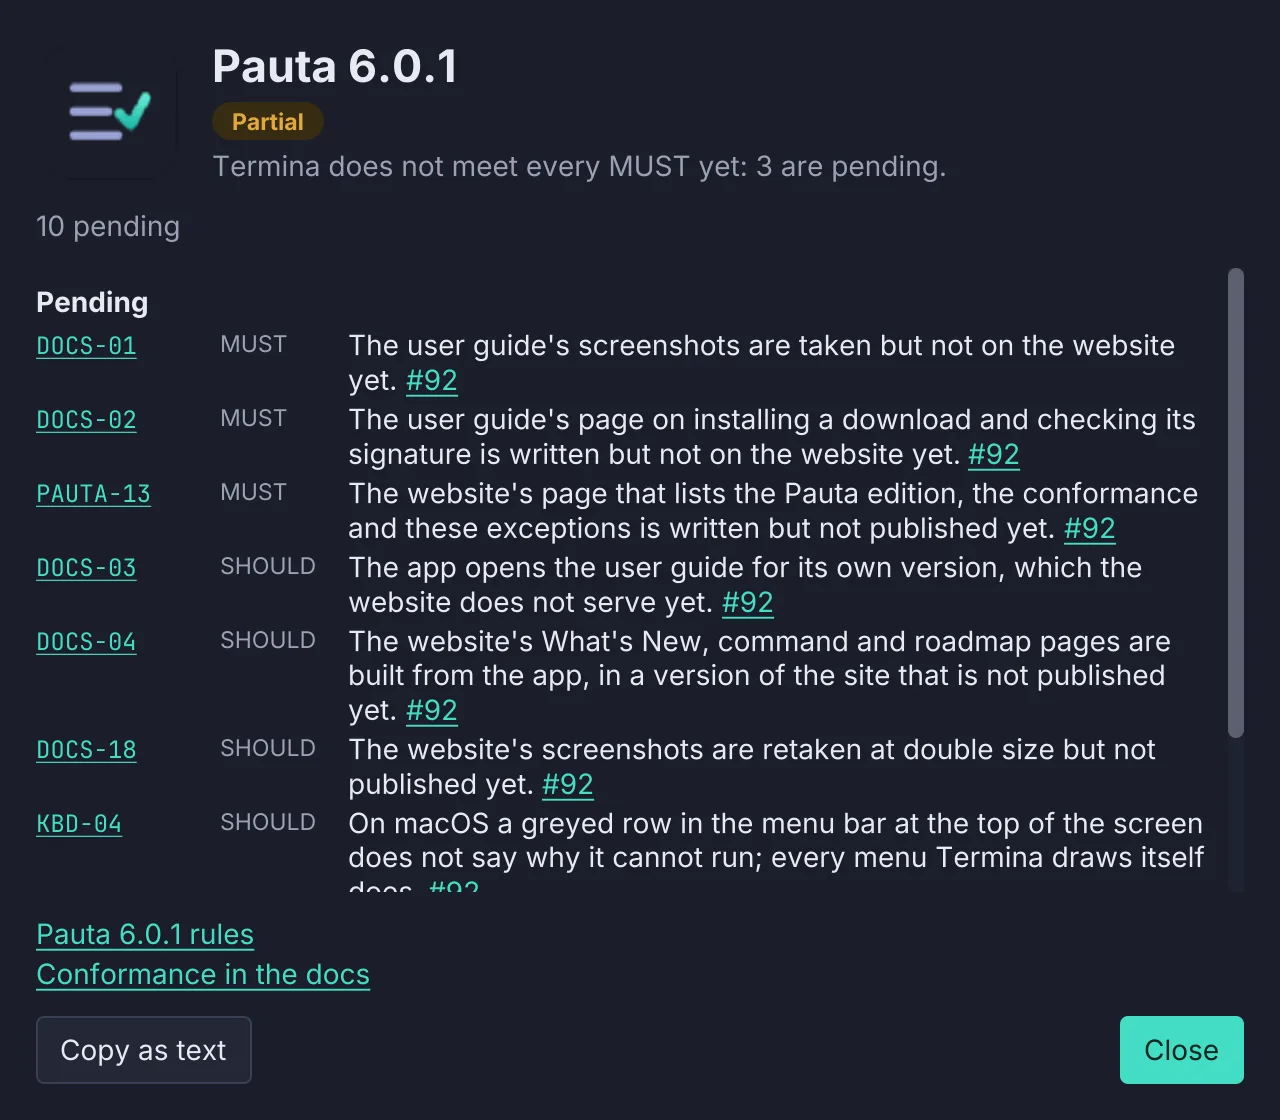
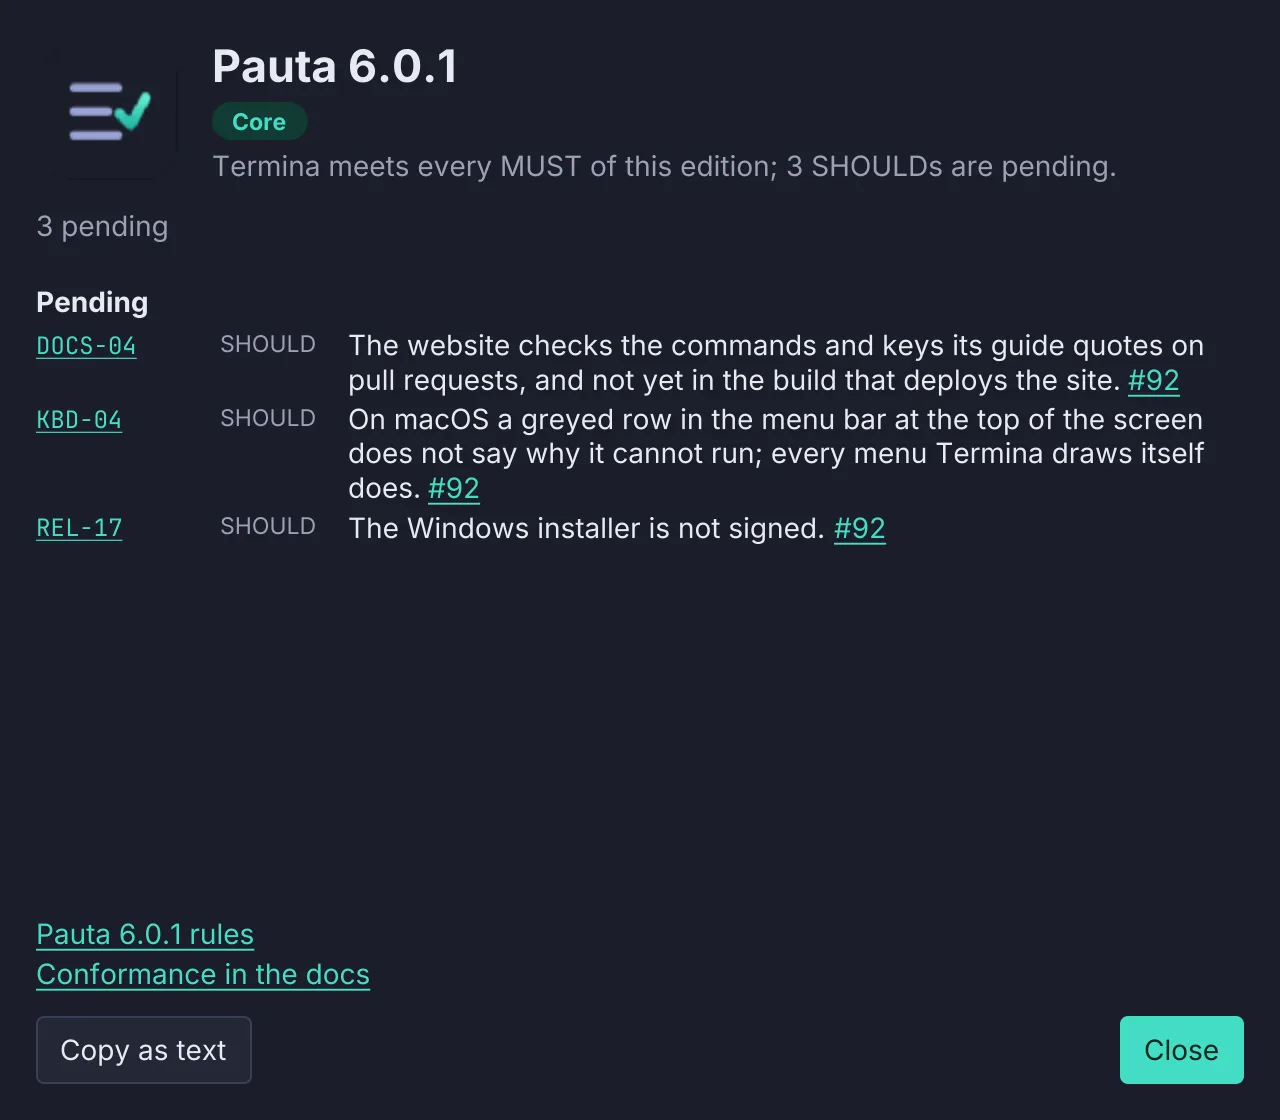
The build runs the docs check; conformance page regenerated at Core
- package.json: `npm run build` runs scripts/check-doc-commands.mjs first and
  stops if it fails, so the workflow that deploys the site cannot publish a
  guide that names a command the app does not have (DOCS-04). It ran only in
  the Check workflow on pull requests. Tried with a wrong id in keyboard.md:
  the build exits 1.
- check.yml: one step, the build, now that the build checks.
- pauta.md, its picture, whats-new.md, roadmap.md and the generated data
  regenerated from Termina's pauta-site-live branch as 0.15.0: Core, 3
  exceptions, where the page listed 10.

diff --git a/src/lib/commands.ts b/src/lib/commands.ts
@@ -1,5 +1,5 @@
 // AUTO-GENERATED by scripts/GenCommands.java — do not edit by hand.
-// Source: messages.properties and the key maps in the Termina repository, at pauta-6.0.1-last.
+// Source: messages.properties and the key maps in the Termina repository, at pauta-site-live.
 // Re-run the script after a release, or after a command or a chord changes.
 
 // A chord is its keys in order, given separately for Linux and Windows (pc) and for macOS

diff --git a/src/lib/version.ts b/src/lib/version.ts
@@ -1,5 +1,5 @@
 // AUTO-GENERATED by scripts/GenCommands.java — do not edit by hand.
-// Source: Termina's pom.xml <version> at pauta-6.0.1-last, or the newest released CHANGELOG.md
+// Source: Termina's pom.xml <version> at pauta-site-live, or the newest released CHANGELOG.md
 // section while the pom is on a -SNAPSHOT between releases; here given with --as, ahead of the release.
 
 export const version = "0.15.0";

diff --git a/src/content/docs/pauta.md b/src/content/docs/pauta.md
@@ -1,6 +1,6 @@
 ---
 title: Pauta conformance
-description: The edition of Pauta, the guidelines Termina's family of apps follows, that Termina is working toward, how fully it conforms, and every rule it does not meet as written.
+description: The edition of Pauta, the guidelines Termina's family of apps follows, that Termina is built to, how fully it conforms, and every rule it does not meet as written.
 category: Help
 order: 13
 ---
@@ -11,9 +11,9 @@ order: 13
 look and work the same on Windows, macOS and Linux. Each rule has an ID and a level: a **MUST** is
 required, a **SHOULD** is expected unless there is a stated reason.
 
-Termina is working toward **[Pauta 6.0.1](https://pauta-project.dev/6.0.1/)**.
+Termina is built to **[Pauta 6.0.1](https://pauta-project.dev/6.0.1/)**.
 
-**Pauta conformance: Partial.** Termina does not meet every MUST of this edition yet: 3 are pending.
+**Pauta conformance: Core.** Termina meets every MUST of this edition; 3 SHOULDs are pending.
 
 | Conformance | Means |
 |---|---|
@@ -29,17 +29,10 @@ and the conformance.
 
 ## Pending
 
-Rules Termina does not meet yet. Each one links the issue that tracks it. 10 rules: 3 MUST, 7 SHOULD.
+Rules Termina does not meet yet. Each one links the issue that tracks it. 3 rules: 0 MUST, 3 SHOULD.
 
 | Rule | Level | What is different | Link |
 |---|---|---|---|
-| <a href="https://pauta-project.dev/6.0.1/documentation/#docs-01" style="white-space: nowrap"><code>DOCS-01</code></a> | MUST | The user guide's screenshots are taken but not on the website yet. | [#92](https://github.com/adriandeleon/Termina/issues/92) |
-| <a href="https://pauta-project.dev/6.0.1/documentation/#docs-02" style="white-space: nowrap"><code>DOCS-02</code></a> | MUST | The user guide's page on installing a download and checking its signature is written but not on the website yet. | [#92](https://github.com/adriandeleon/Termina/issues/92) |
-| <a href="https://pauta-project.dev/6.0.1/conformance/#pauta-13" style="white-space: nowrap"><code>PAUTA-13</code></a> | MUST | The website's page that lists the Pauta edition, the conformance and these exceptions is written but not published yet. | [#92](https://github.com/adriandeleon/Termina/issues/92) |
-| <a href="https://pauta-project.dev/6.0.1/documentation/#docs-03" style="white-space: nowrap"><code>DOCS-03</code></a> | SHOULD | The app opens the user guide for its own version, which the website does not serve yet. | [#92](https://github.com/adriandeleon/Termina/issues/92) |
-| <a href="https://pauta-project.dev/6.0.1/documentation/#docs-04" style="white-space: nowrap"><code>DOCS-04</code></a> | SHOULD | The website's What's New, command and roadmap pages are built from the app, in a version of the site that is not published yet. | [#92](https://github.com/adriandeleon/Termina/issues/92) |
-| <a href="https://pauta-project.dev/6.0.1/documentation/#docs-18" style="white-space: nowrap"><code>DOCS-18</code></a> | SHOULD | The website's screenshots are retaken at double size but not published yet. | [#92](https://github.com/adriandeleon/Termina/issues/92) |
+| <a href="https://pauta-project.dev/6.0.1/documentation/#docs-04" style="white-space: nowrap"><code>DOCS-04</code></a> | SHOULD | The website checks the commands and keys its guide quotes on pull requests, and not yet in the build that deploys the site. | [#92](https://github.com/adriandeleon/Termina/issues/92) |
 | <a href="https://pauta-project.dev/6.0.1/keyboard/#kbd-04" style="white-space: nowrap"><code>KBD-04</code></a> | SHOULD | On macOS a greyed row in the menu bar at the top of the screen does not say why it cannot run; every menu Termina draws itself does. | [#92](https://github.com/adriandeleon/Termina/issues/92) |
-| <a href="https://pauta-project.dev/6.0.1/templates/command-palette/#pal-08" style="white-space: nowrap"><code>PAL-08</code></a> | SHOULD | The Command Palette's help key opens a command's page of the user guide, which the website does not serve yet. | [#92](https://github.com/adriandeleon/Termina/issues/92) |
-| <a href="https://pauta-project.dev/6.0.1/conformance/#pauta-14" style="white-space: nowrap"><code>PAUTA-14</code></a> | SHOULD | The website builds its conformance page from this list, in a version of the site that is not published yet. | [#92](https://github.com/adriandeleon/Termina/issues/92) |
 | <a href="https://pauta-project.dev/6.0.1/release/#rel-17" style="white-space: nowrap"><code>REL-17</code></a> | SHOULD | The Windows installer is not signed. | [#92](https://github.com/adriandeleon/Termina/issues/92) |

diff --git a/src/content/docs/roadmap.md b/src/content/docs/roadmap.md
@@ -23,22 +23,15 @@ A test fails when this list and that file disagree.
 
 ### MUST
 
-- [ ] **[PAUTA-13](https://pauta-project.dev/6.0.1/conformance/#pauta-13)** The website's page that lists the Pauta edition, the conformance and these exceptions is written but not published yet.
-- [ ] **[DOCS-01](https://pauta-project.dev/6.0.1/documentation/#docs-01)** The user guide's screenshots are taken but not on the website yet.
-- [ ] **[DOCS-02](https://pauta-project.dev/6.0.1/documentation/#docs-02)** The user guide's page on installing a download and checking its signature is written but not on the website yet.
+None: every MUST of the edition is met, which makes the conformance Core.
 
 ### SHOULD
 
-- [ ] **[PAUTA-14](https://pauta-project.dev/6.0.1/conformance/#pauta-14)** The website builds its conformance page from this list, in a version of the site that is not published yet.
-- [ ] **[DOCS-03](https://pauta-project.dev/6.0.1/documentation/#docs-03)** The app opens the user guide for its own version, which the website does not serve yet.
-- [ ] **[DOCS-04](https://pauta-project.dev/6.0.1/documentation/#docs-04)** The website's What's New, command and roadmap pages are built from the app, in a version of the site that is not published yet.
-- [ ] **[DOCS-18](https://pauta-project.dev/6.0.1/documentation/#docs-18)** The website's screenshots are retaken at double size but not published yet.
+- [ ] **[DOCS-04](https://pauta-project.dev/6.0.1/documentation/#docs-04)** The website checks the commands and keys its guide quotes on pull requests, and not yet in the build that deploys the site.
 - [ ] **[KBD-04](https://pauta-project.dev/6.0.1/keyboard/#kbd-04)** On macOS a greyed row in the menu bar at the top of the screen does not say why it cannot run; every menu Termina draws itself does.
-- [ ] **[PAL-08](https://pauta-project.dev/6.0.1/templates/command-palette/#pal-08)** The Command Palette's help key opens a command's page of the user guide, which the website does not serve yet.
 - [ ] **[REL-17](https://pauta-project.dev/6.0.1/release/#rel-17)** The Windows installer is not signed.
 
-One optional rule is not met and has no entry there: window modes that hide chrome
-([WIN-10](https://pauta-project.dev/6.0.1/window-shell/#win-10)).
+Every optional rule (MAY) that applies is met.
 
 ## Never run
 

diff --git a/src/content/docs/whats-new.md b/src/content/docs/whats-new.md
@@ -176,6 +176,10 @@ done.
 
 ### Changed
 
+- **Termina is built to Pauta 6.0.1 at Core conformance**: every MUST of the edition is met, and
+  three SHOULDs are pending. About and Help ▸ Pauta Conformance say "Built to Pauta 6.0.1" where
+  they said "Working toward". The last three MUSTs were the user guide on the website: its
+  pictures of the real window, its Installing page and its conformance page.
 - **An imported colour scheme is stored as JSON.** A theme is `themes/<name>.json` in the settings
   folder, where it was `<name>.properties`. Each theme you have is rewritten the first time
   Termina starts, under the same name, and the file it was is kept beside it as
@@ -477,6 +481,10 @@ done.
 
 ### Fixed
 
+- **A profile's folder could be undone by the edit before it.** In Settings ▸ Profiles, changing
+  the command and then the folder a moment later could leave the folder as it was: each edit
+  checks its paths on its own thread, and the first edit's answer sometimes arrived last and was
+  written over the second. Only the newest edit of a profile is applied now.
 - **Settings sync's `gh` is given the login shell's `PATH`,** as `git` already was: started from a
   desktop launcher, a `gh` installed by Homebrew could be found and then fail to find `git`. The
   link opener and the desktop's own tools (`xclip`, `notify-send`) get it too once it is known.

diff --git a/README.md b/README.md
@@ -105,7 +105,9 @@ and the palette demo. After a release, run all four from the tag and commit the 
 
 `npm run check:docs` then checks what the hand-written pages quote: a backticked command id must
 be a real command, and a key in a table beside a command's title must not be another command's
-key. The **Check** workflow runs it, and the build, on every pull request.
+key. `npm run build` runs it first and stops there if it fails (DOCS-04), so the workflow that
+deploys the site cannot publish a guide that names a command the app does not have. The **Check**
+workflow runs the build on every pull request.
 
 ## The guide is served under its version
 
@@ -133,7 +135,7 @@ Apple's and are kept.
 
 ## Generated data
 
-`npm run build` first runs `scripts/gen-images.mjs`: the favicon and touch icons from
+`npm run build` runs the docs check, then `scripts/gen-images.mjs`: the favicon and touch icons from
 `public/termina-icon.svg` (a copy of the app's `branding/termina-icon.svg`), a social card per
 key page in `public/og/`, and a WebP beside every PNG screenshot. Outputs are kept unless their
 source is newer; `--force` rebuilds them.
